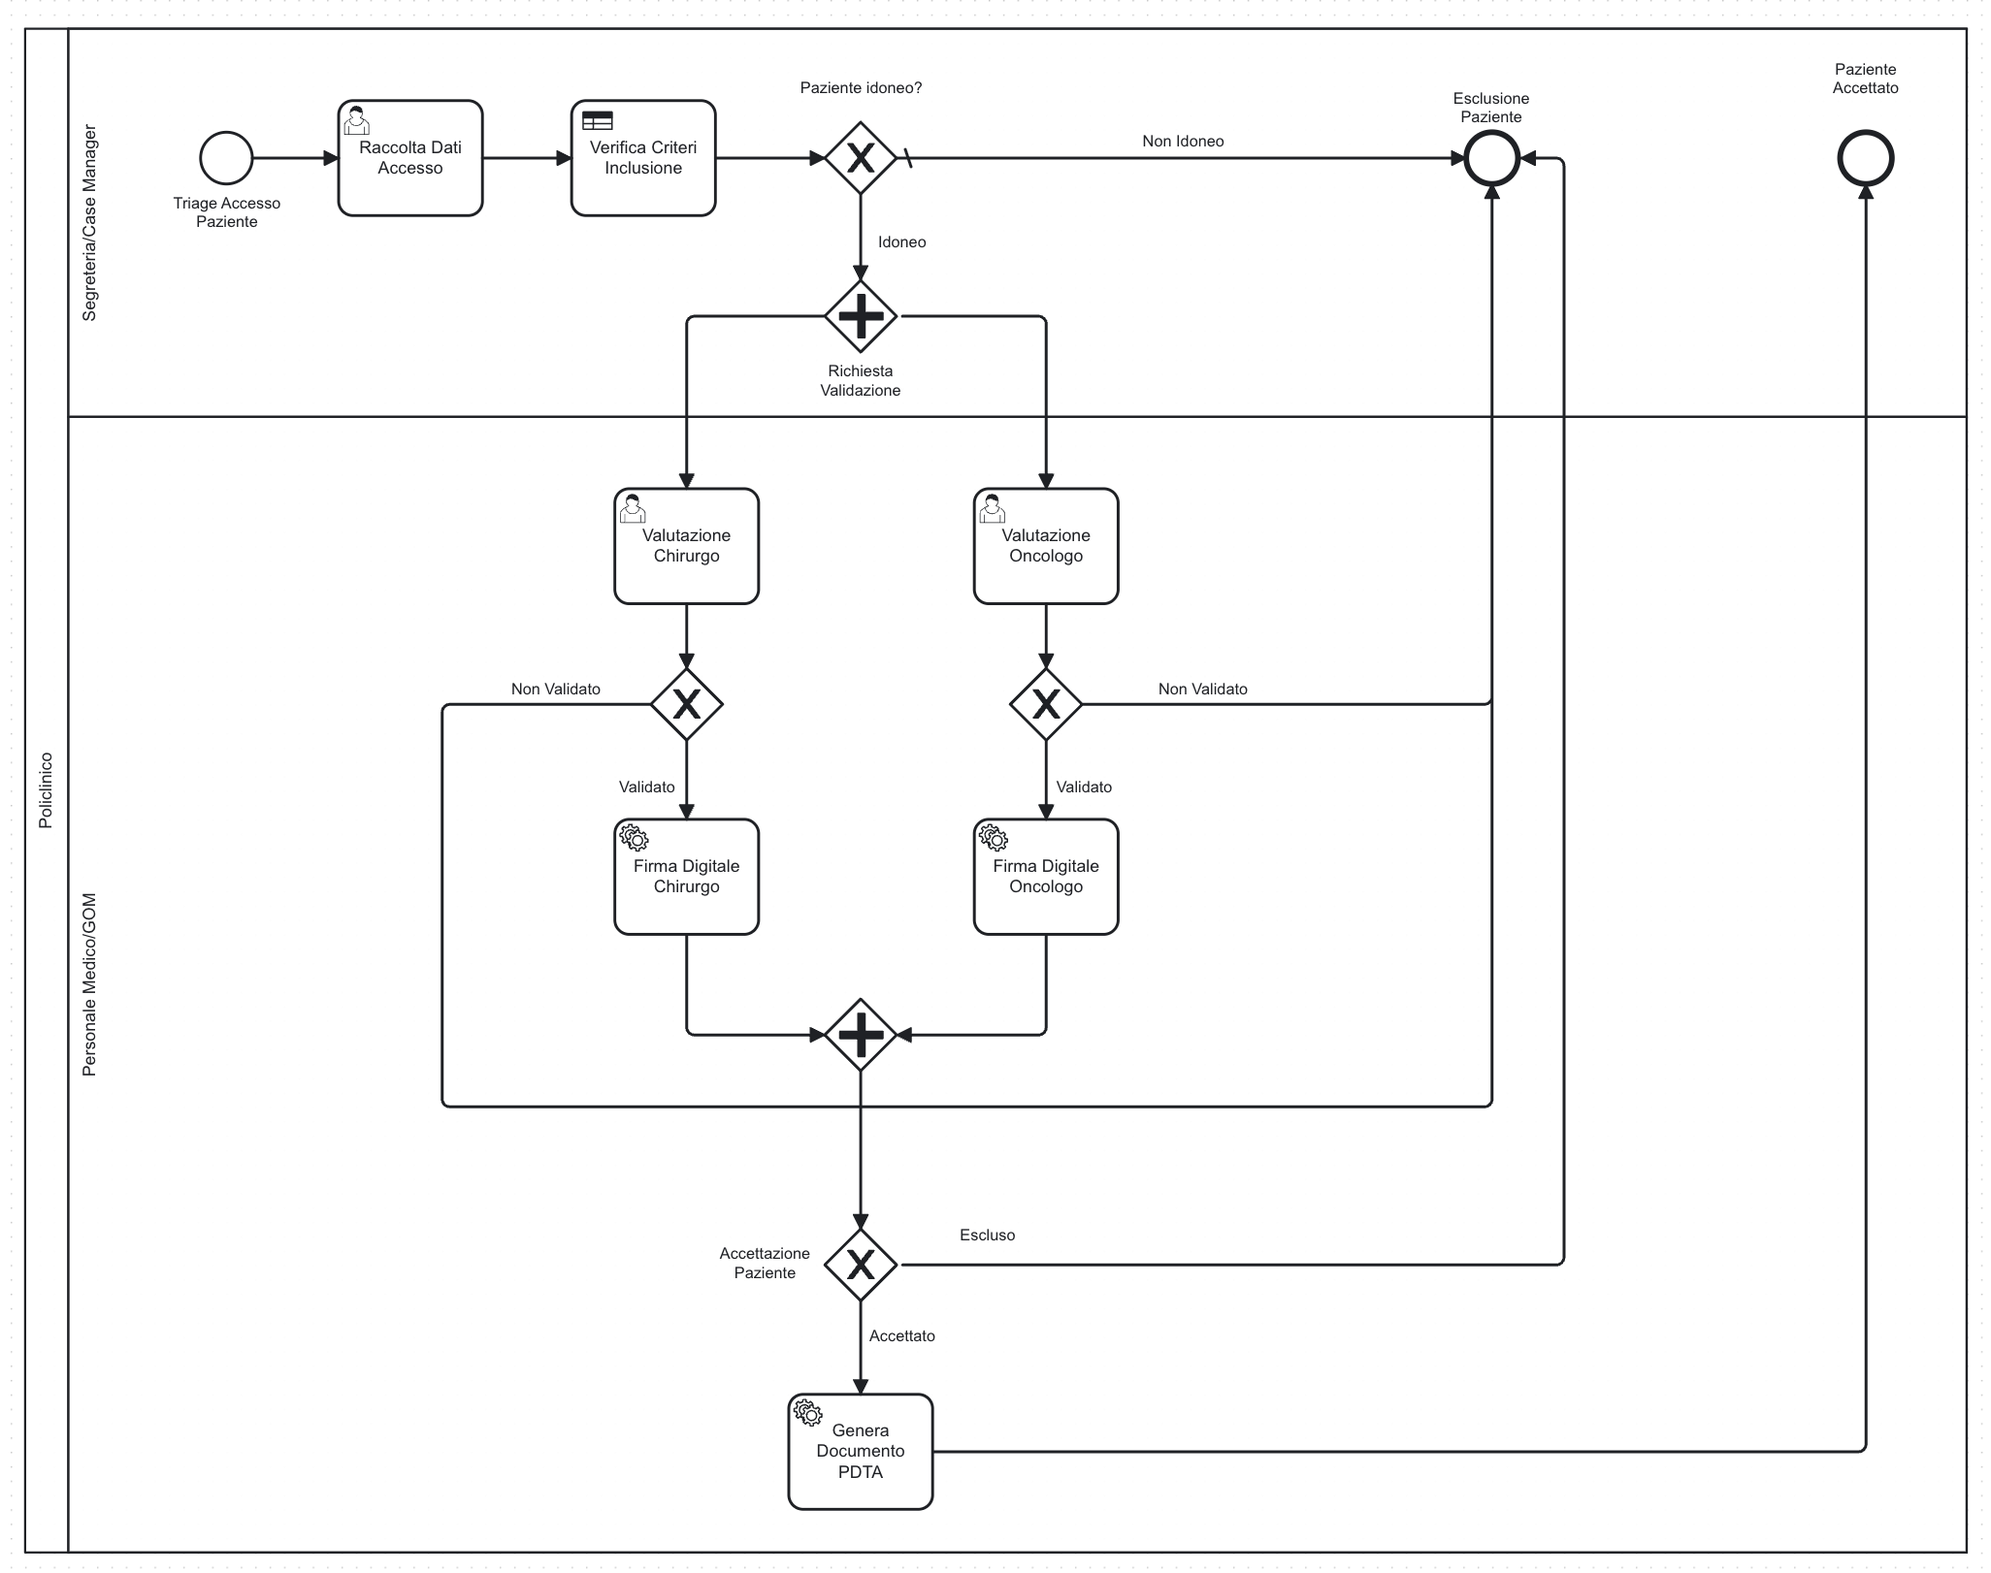
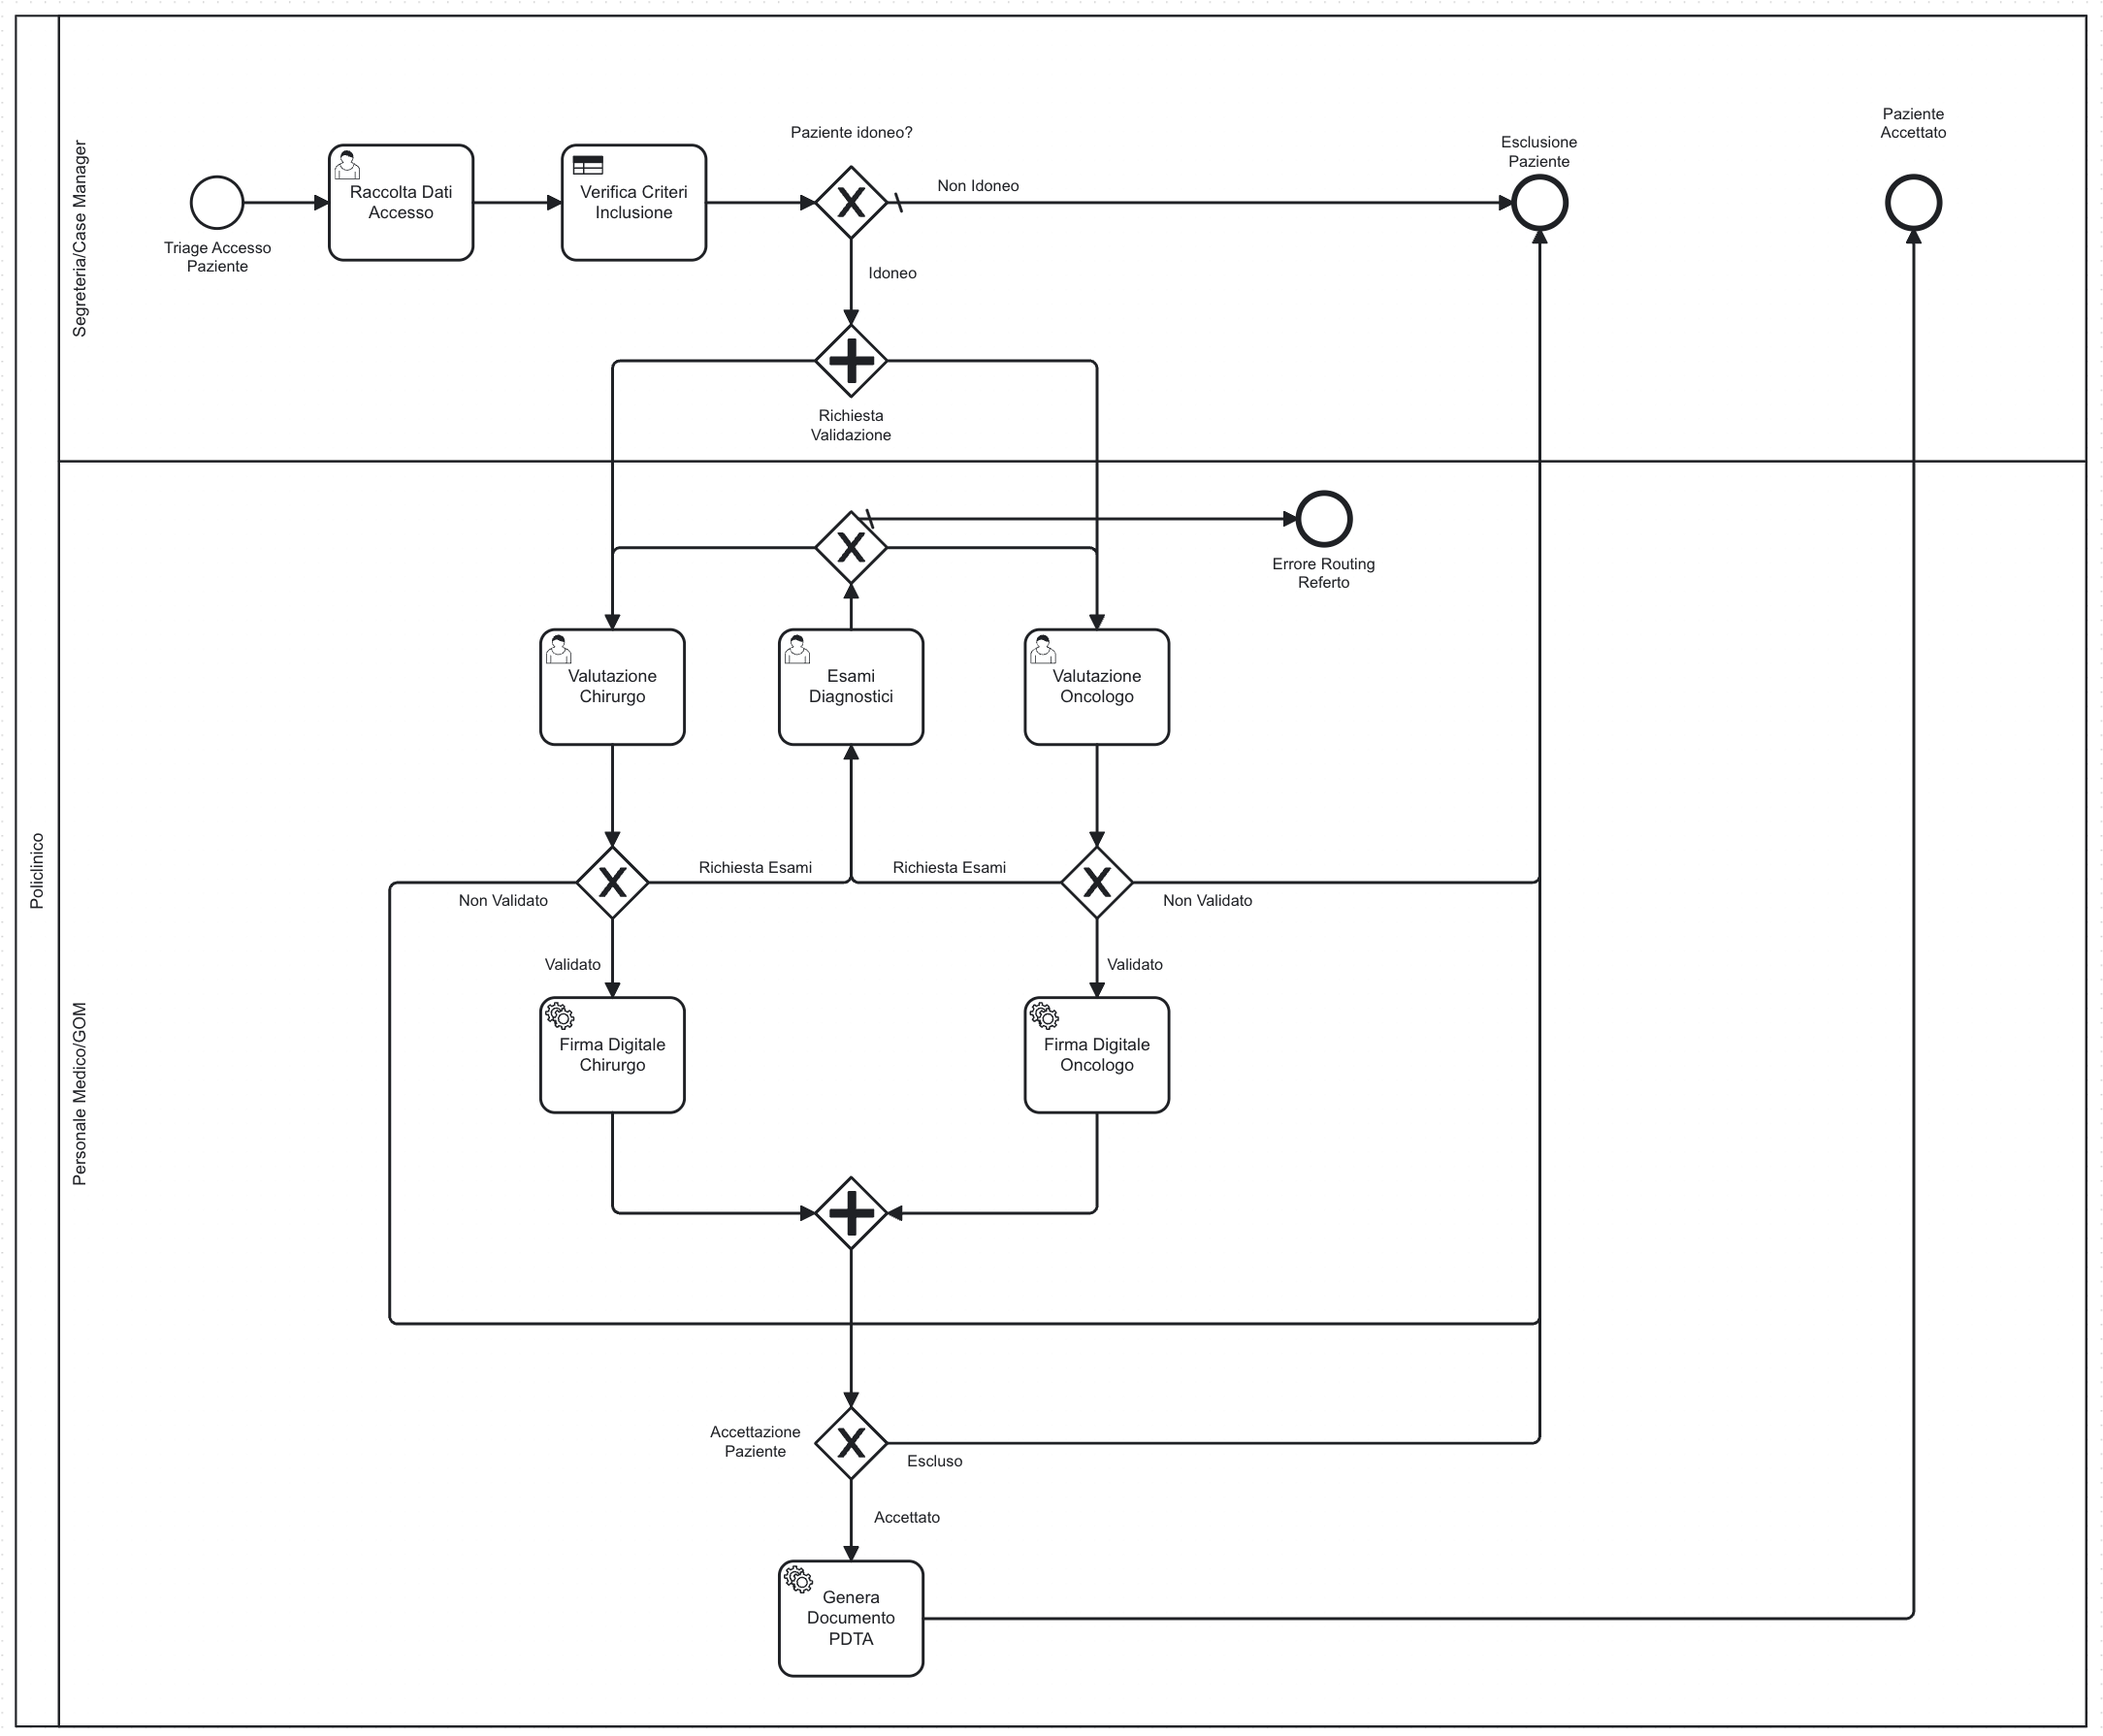
Aggiornamento README

diff --git a/README.md b/README.md
@@ -8,8 +8,9 @@ Il progetto implementa un workflow dimostrativo focalizzato sulla fase di accett
 Il flusso operativo prevede:
 1.  **Registrazione:** Inserimento dati paziente tramite interfaccia Case Manager.
 2.  **Valutazione Automatica:** Verifica dei criteri di inclusione tramite regole DMN.
-3.  **Approvazione Specialistica:** Workflow parallelo di validazione da parte di Chirurgo e Oncologo.
-4.  **Finalizzazione:** Generazione automatica del documento PDTA con apposizione di firme digitali simulate.
+3.  **Valutazione Specialistica:** Workflow parallelo di validazione da parte di Chirurgo e Oncologo con tre esiti possibili: approvazione, rifiuto o richiesta di approfondimenti diagnostici.
+4.  **Esami Diagnostici (opzionale):** Se richiesti da uno o entrambi gli specialisti, il laboratorio riceve i task e invia i referti che tornano allo specialista richiedente.
+5.  **Finalizzazione:** Generazione automatica del documento PDTA con apposizione di firme digitali simulate.
 
 ## Tecnologie Utilizzate
 *   **Linguaggio:** Java 21
@@ -20,9 +21,10 @@ Il flusso operativo prevede:
 ## Architettura del Sistema
 Il sistema è composto da:
 *   **PdtaCamundaApplication** (Spring Boot): Applicazione principale che esegue i worker Camunda in background per processare automaticamente i job (firma documenti, generazione PDTA)
-*   **CLI Standalone** : Due applicazioni Java pure senza Spring Boot per l'interazione utente:
+*   **CLI Standalone** : Tre applicazioni Java pure senza Spring Boot per l'interazione utente:
     *   `CaseManagerCli`: Interfaccia per inserimento pazienti e avvio processo
-    *   `SpecialistCli`: Interfaccia unificata per Chirurghi e Oncologi
+    *   `SpecialistCli`: Interfaccia unificata per Chirurghi e Oncologi (approva / rifiuta / richiedi esami)
+    *   `DiagnosticCli`: Interfaccia laboratorio per gestione richieste esami e invio referti
 *   **Camunda REST Client**: Utilizzato dalle CLI per interagire con i processi e i task tramite API REST v2
 
 ## Prerequisiti
@@ -69,3 +71,14 @@ Selezionare opzione 1 per simulare un Chirurgo.
 ./start-specialist.sh
 ```
 Selezionare opzione 2 per simulare un Oncologo.
+
+**Terminale 5: Interfaccia Diagnostica (Laboratorio)**
+```bash
+./start-diagnostic.sh
+```
+Avvia la CLI di laboratorio che monitora e completa i task "Esami Diagnostici".
+
+## Note Funzionali
+*   La CLI specialista invia variabili di processo per la gestione degli esami: `requiresExam`, `examType`, `requesterRole`, `requesterName`.
+*   I referti sono gestiti per ruolo (`chirurgoExamResult`, `oncologoExamResult`) così ogni specialista visualizza il referto corretto.
+*   La CLI diagnostica gestisce eventuali task stale con deduplica chiavi e fallback su errori 404 durante assegnazione/completamento.
